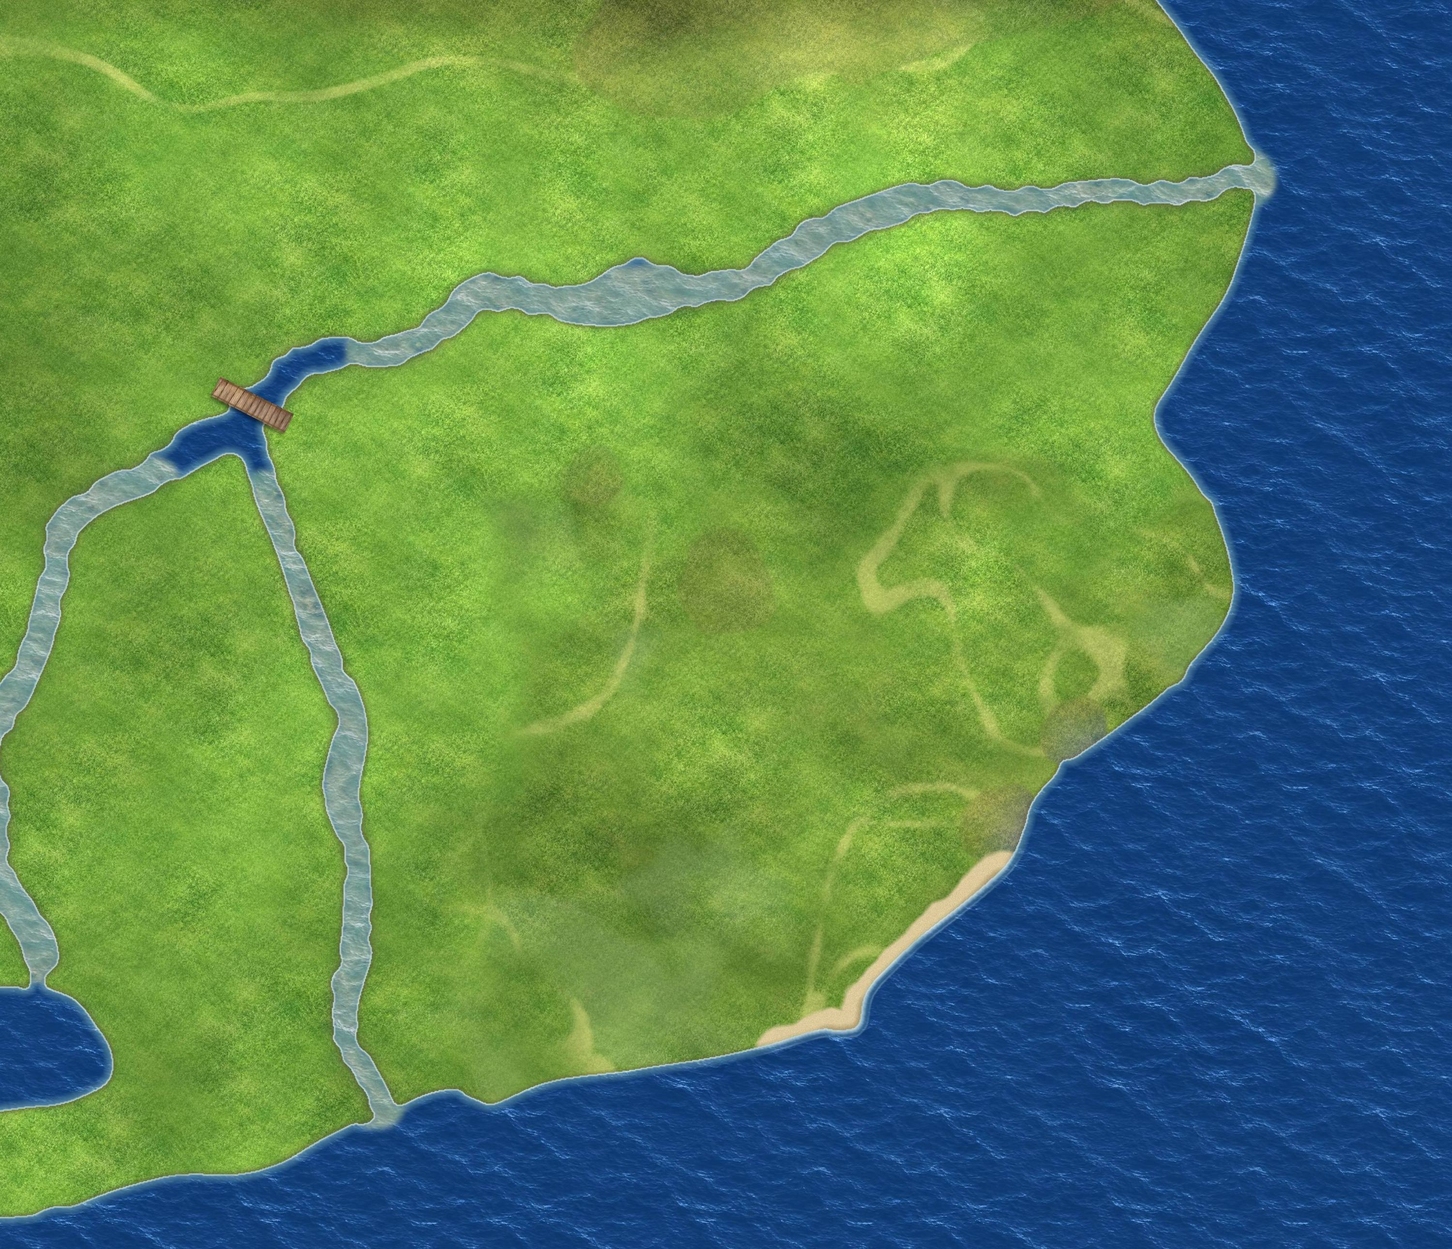
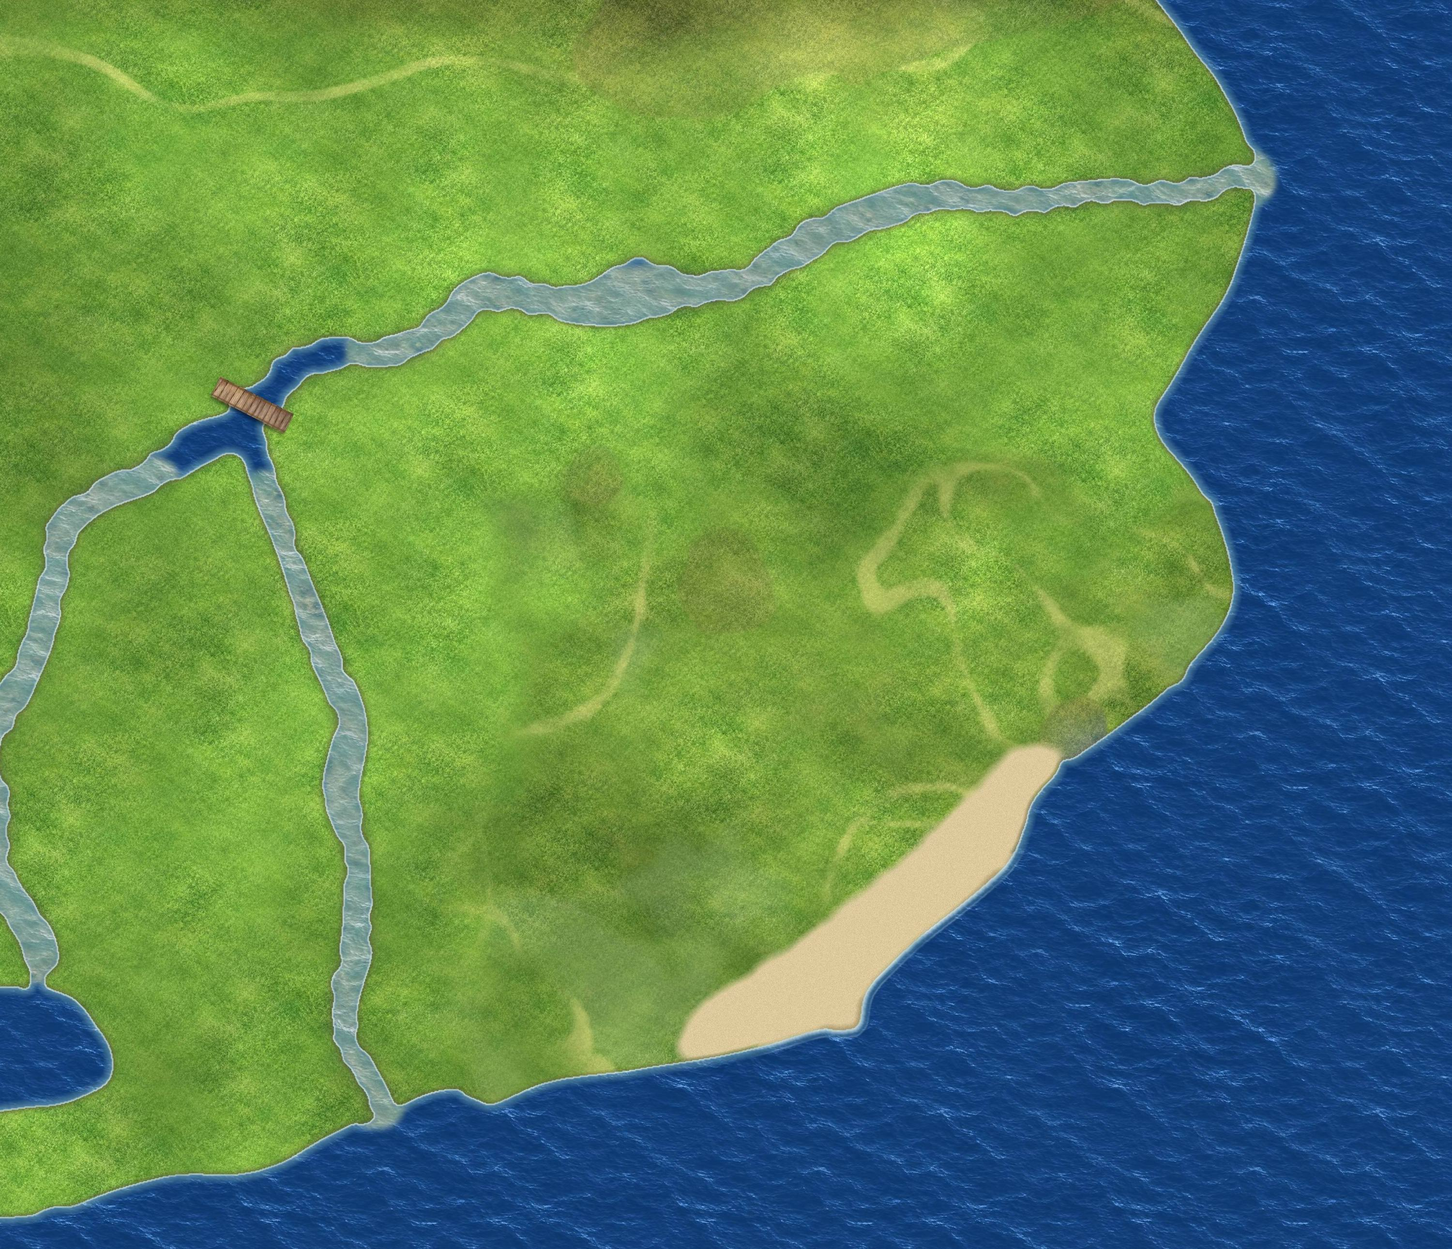
角色只选男/女（其他造型加锁）、记住选择；男主专属掌机（像素光弹、满级俄罗斯方块）、女主专属耳机（声波圈、音符、重低音）；东南海岸按涂抹做沙滩
Claude-Session: https://claude.ai/code/session_011WrGna6yNwTfpmyp4CxMHs

Changed region(s): [[0.465, 0.5891, 0.744, 0.8682]]

diff --git a/src/run.js b/src/run.js
@@ -1,7 +1,7 @@
 // 局内成长（最小可玩版）：经验珠 → 升级三选一（大类卡点开再选）→ 多把武器自动攻击；被动；刷怪节奏；精英与 Boss。
 // 设计见 docs/GAME_DESIGN.md。伤害单位 = 敌人血量单位（棍兵基础 2 点）。
 const R=(a,b)=>a+Math.random()*(b-a);
-const CATS={blade:{name:'刀剑',ws:['sword','dao','hammer','axe']},bow:{name:'弓弩',ws:['bow','xbow']}};
+const CATS={own:{name:'专属',ws:[]},blade:{name:'刀剑',ws:['sword','dao','hammer','axe']},bow:{name:'弓弩',ws:['bow','xbow']}};
 const WEAPONS={
  sword:{name:'直剑',cat:'blade',img:'直剑',desc:['朝最近的敌人快速连斩','伤害提升','每次斩两下','范围变大','攻速提升','伤害提升','每次斩三下','范围、伤害大增']},
  dao:{name:'砍刀',cat:'blade',img:'砍刀',desc:['朝前方 120° 扇形横扫','伤害提升','扇面变大','间隔缩短','伤害提升','扇面变成半圆','间隔缩短','前后各扫一刀']},
@@ -14,6 +14,9 @@ const PASSIVES={
  hp:{name:'生命',desc:'生命上限 +20，并回复 20',max:5},
  spd:{name:'移速',desc:'移动速度 +8%',max:5},
  mag:{name:'拾取',desc:'经验拾取范围 +25%',max:5}};
+// 角色专属武器（不进公共卡池）
+WEAPONS.gb={name:'掌机',cat:'own',img:'gear/gb',own:1,desc:['按 A 键射出像素光弹，追最近的敌人','伤害提升','一次 2 发','光弹穿透 1 个敌人','射速提升','一次 3 发','穿透 +1','每 4 轮从天上砸下俄罗斯方块']};
+WEAPONS.hp={name:'耳机',cat:'own',img:'gear/hp',own:1,desc:['放出声波圈，向外扩散并推开敌人','伤害提升','声波圈变大','间隔缩短','附带音符追踪敌人','伤害提升','音符变多','重低音：全屏震停敌人 1 秒']};
 const MAXW=6,MAXP=4;
 export function createRun({hero,en,images,hitEnemy,survival,ok,makeEnemy}){
  let S;
@@ -30,6 +33,7 @@ export function createRun({hero,en,images,hitEnemy,survival,ok,makeEnemy}){
  #lvup .row{display:flex;gap:8px;justify-content:center;margin-top:6px}#lvup .row button{padding:8px 16px;border-radius:6px;border:1px solid #8fbbef;background:#436da66b;color:#fff;font:inherit;cursor:pointer}`;
  document.head.append(st);document.body.append(ui);
  const wImg={};for(const k in WEAPONS){const im=new Image();im.src='assets/weapons/'+WEAPONS[k].img+'.png';wImg[k]=im}
+ const GX={};for(const k of ['b0','b1','b2','b3','x0','x1','x2','x3','tet','w0','w1','w2','w3','n0','n1','n2','bass']){const im=new Image();im.src='assets/weapons/gear/'+k+'.png';GX[k]=im}
  function reset(start='sword'){
   S={t:+(new URLSearchParams(location.search).get('t')||0),lv:1,xp:0,need:5,queue:0,lastLv:-9,rerolls:0,w:{[start]:1},cd:{},p:{atk:0,hp:0,spd:0,mag:0},gems:[],shots:[],fx:[],texts:[],eliteT:+(new URLSearchParams(location.search).get('t')||0)+75,bossDone:{},paused:false,maxHp:100};
   survival?.setMax?.(100);ui.hidden=true;
@@ -73,7 +77,16 @@ export function createRun({hero,en,images,hitEnemy,survival,ok,makeEnemy}){
   xbow(L){const n=L>=8?9:L>=6?7:L>=3?5:3,dm=dmg(.9+(L>=2?.3:0)+(L>=5?.4:0)+(L>=8?.5:0)),pierce=L>=7?1:0;
    const t=nearest(180),base=t?Math.atan2(t.y-hero.y,t.x-hero.x):(hero.face>0?0:Math.PI);
    for(let i=0;i<n;i++){const a=base+(i-(n-1)/2)*.16;S.shots.push({k:'bolt',x:hero.x,y:hero.y-10,dx:Math.cos(a),dy:Math.sin(a),v:260,life:.75,dm,pierce,hit:new Set()})}
-   return L>=4?1.15:1.5}};
+   return L>=4?1.15:1.5},
+  gb(L){const n=L>=6?3:L>=3?2:1,dm=dmg(1.2+.35*(L-1)),pierce=(L>=4?1:0)+(L>=7?1:0);
+   const ts=en.filter(e=>!e.dead).map(e=>[e,(e.x-hero.x)**2+(e.y-hero.y)**2]).filter(a=>a[1]<190*190).sort((a,b)=>a[1]-b[1]);if(!ts.length)return .2;
+   for(let i=0;i<n;i++){const t=ts[i%ts.length][0],a=Math.atan2(t.y-10-(hero.y-10),t.x-hero.x)+(i>=ts.length?R(-.2,.2):0);S.shots.push({k:'pix',x:hero.x,y:hero.y-10,dx:Math.cos(a),dy:Math.sin(a),v:210,life:1,dm,pierce,hit:new Set()})}
+   S.gbN=(S.gbN||0)+1;if(L>=8&&S.gbN%4===0){const t=ts[0][0];S.shots.push({k:'tet',x:t.x,y:t.y,t:0,d:.45,r:34,dm:dmg(5)})}
+   return L>=5?.6:.85},
+  hp(L){const r=L>=3?62:48,dm=dmg(1+.35*(L-1)+(L>=6?.6:0));S.shots.push({k:'wave',t:0,d:.6,r,dm,hit:new Set()});
+   if(L>=5){const n=L>=7?3:2;for(let i=0;i<n;i++){const a=R(0,6.28);S.shots.push({k:'note',x:hero.x,y:hero.y-12,dx:Math.cos(a),dy:Math.sin(a),v:120,life:1.8,dm:dmg(1.2),pierce:0,hit:new Set(),img:'n'+(i%3)})}}
+   S.hpN=(S.hpN||0)+1;if(L>=8&&S.hpN%5===0){S.fx.push({k:'bass',t:0,d:.6});for(const e of en)if(!e.dead&&(e.x-hero.x)**2+(e.y-hero.y)**2<260*260){strike(e,dm,Math.sign(e.x-hero.x)||1);e.state='hurt';e.timer=-.75}}
+   return L>=4?1.1:1.4}};
  // ---------- 升级 ----------
  function gain(v){S.xp+=v}
  function tryLevel(){
@@ -86,7 +99,7 @@ export function createRun({hero,en,images,hitEnemy,survival,ok,makeEnemy}){
  function options(){
   const pool=[],nw=Object.keys(S.w).length,np=Object.keys(S.p).filter(k=>S.p[k]>0).length;
   for(const k in S.w)if(S.w[k]<8)pool.push({t:'w',k,wt:1.2});
-  if(nw<MAXW)for(const c in CATS)if(CATS[c].ws.some(k=>!S.w[k]))pool.push({t:'cat',k:c,wt:1});
+  if(nw<MAXW)for(const c in CATS)if(CATS[c].ws.length&&CATS[c].ws.some(k=>!S.w[k]))pool.push({t:'cat',k:c,wt:1});
   for(const k in PASSIVES){const L=S.p[k];if(L>=PASSIVES[k].max)continue;if(!L&&np>=MAXP)continue;pool.push({t:'p',k,wt:.8})}
   const out=[];while(out.length<3&&pool.length){const tot=pool.reduce((a,o)=>a+o.wt,0);let r=Math.random()*tot,i=0;while(i<pool.length-1&&r>pool[i].wt)r-=pool[i++].wt;out.push(pool.splice(i,1)[0])}
   if(!out.length)out.push({t:'heal'});return out}
@@ -125,6 +138,9 @@ export function createRun({hero,en,images,hitEnemy,survival,ok,makeEnemy}){
   S.t+=dt;
   for(const k in S.w){S.cd[k]=(S.cd[k]??R(.1,.4))-dt;if(S.cd[k]<=0)S.cd[k]=FIRE[k](S.w[k])}
   for(const s of S.shots){
+   if(s.k==='wave'){s.t+=dt;const rr=s.r*Math.min(1,s.t/s.d);for(const e of en){if(e.dead||s.hit.has(e))continue;const d=Math.hypot(e.x-hero.x,(e.y-hero.y)*1.2);if(d<rr+4){s.hit.add(e);strike(e,s.dm,Math.sign(e.x-hero.x)||1);if(!e.boss)knock(e,8)}}s.dead=s.t>=s.d;continue}
+   if(s.k==='tet'){s.t+=dt;if(!s.done&&s.t>=s.d){s.done=true;S.fx.push({k:'ring',x:s.x,y:s.y,r:s.r,t:0,d:.3});for(const e of en)if(!e.dead&&(e.x-s.x)**2+((e.y-s.y)*1.3)**2<s.r*s.r)strike(e,s.dm,1)}s.dead=s.t>s.d+.05;continue}
+   if(s.k==='note'){const t=nearest(160,s);if(t){const a=Math.atan2(t.y-10-s.y,t.x-s.x),b=Math.atan2(s.dy,s.dx),d=Math.atan2(Math.sin(a-b),Math.cos(a-b));const nb=b+Math.max(-4*dt,Math.min(4*dt,d));s.dx=Math.cos(nb);s.dy=Math.sin(nb)}}
    if(s.k==='hammer'){s.t+=dt;if(!s.done&&s.t>=s.d){s.done=true;S.fx.push({k:'ring',x:s.x,y:s.y,r:s.r,t:0,d:.3});
      for(const e of en){if(e.dead)continue;if((e.x-s.x)**2+((e.y-s.y)*1.3)**2<(s.r+4*(e.sc||1))**2){strike(e,s.dm,Math.sign(e.x-s.x)||1);if(!e.dead){const dx=e.x-s.x,dy=e.y-s.y,l=Math.hypot(dx,dy)||1,k=e.boss?2:12;if(ok(e.x+dx/l*k,e.y+dy/l*k)){e.x+=dx/l*k;e.y+=dy/l*k}}}}}
      s.dead=s.t>s.d+.05;continue}
@@ -151,6 +167,10 @@ export function createRun({hero,en,images,hitEnemy,survival,ok,makeEnemy}){
   for(const s of S.shots){
    if(s.k==='hammer'){const k=Math.min(1,s.t/s.d),x=s.x-cx,y=s.y-cy-60*(1-k)-6;c.save();c.globalAlpha=.35*k;c.fillStyle='#000';c.beginPath();c.ellipse(s.x-cx,s.y-cy,s.r*.5*k,s.r*.2*k,0,0,6.3);c.fill();c.restore();
     const im=wImg.hammer;if(im.complete){c.save();c.translate(x,y);c.rotate(Math.PI*(.2+k*.8));c.drawImage(im,-im.width/2,-im.height/2);c.restore()}continue}
+   if(s.k==='wave'){const k=Math.min(1,s.t/s.d),im=GX['w'+Math.min(3,Math.floor(k*4))],rr=s.r*k;if(im.complete){c.save();c.globalAlpha=1-k*.5;c.drawImage(im,hero.x-cx-rr,hero.y-cy-8-rr*.8,rr*2,rr*1.6);c.restore()}continue}
+   if(s.k==='tet'){const k=Math.min(1,s.t/s.d),im=GX.tet;if(im.complete){const h=22,w=im.width*h/im.height;c.drawImage(im,s.x-cx-w/2,s.y-cy-h-70*(1-k),w,h)}continue}
+   if(s.k==='note'){const im=GX[s.img];if(im.complete){const h=9,w=im.width*h/im.height;c.drawImage(im,s.x-cx-w/2,s.y-cy-h/2,w,h)}continue}
+   if(s.k==='pix'){const im=GX['b'+(Math.floor(performance.now()/80)%4)];if(im.complete){c.save();c.translate(s.x-cx,s.y-cy);c.rotate(Math.atan2(s.dy,s.dx));const h=6,w=im.width*h/im.height;c.drawImage(im,-w+3,-h/2,w,h);c.restore()}continue}
    const x=s.x-cx,y=s.y-cy;c.save();c.translate(x,y);c.rotate(Math.atan2(s.dy,s.dx));
    if(s.k==='arrow'){c.strokeStyle='#e9dcc0';c.lineWidth=1;c.beginPath();c.moveTo(-8,0);c.lineTo(3,0);c.stroke();c.fillStyle='#c8ccd2';c.fillRect(3,-1,2.5,2);c.fillStyle='#c0402e';c.fillRect(-8,-1.2,2,2.4)}
    else{c.strokeStyle='#d8c39a';c.lineWidth=1.3;c.beginPath();c.moveTo(-5,0);c.lineTo(2,0);c.stroke();c.fillStyle='#aab0b8';c.fillRect(2,-1,2,2)}
@@ -159,6 +179,7 @@ export function createRun({hero,en,images,hitEnemy,survival,ok,makeEnemy}){
   for(const f of S.fx){f.t+=1/60;const k=f.t/f.d;if(k>=1)continue;
    if(f.k==='arc'){c.save();c.translate(px,py);c.strokeStyle=`rgba(${f.c},${.85*(1-k)})`;c.lineWidth=3*(1-k)+1;c.beginPath();c.arc(0,0,f.r*.82,f.a-f.w/2,f.a-f.w/2+f.w*Math.min(1,k*2));c.stroke();
     const im=wImg[f.img];if(im&&im.complete){const aa=f.a-f.w/2+f.w*Math.min(1,k*2);c.rotate(aa);c.translate(f.r*.55,0);c.rotate(Math.PI/2);c.globalAlpha=1-k*.6;c.drawImage(im,-im.width/2,-im.height/2)}c.restore()}
+   else if(f.k==='bass'){const im=GX.bass;if(im.complete){const r=40+200*k;c.save();c.globalAlpha=1-k;c.drawImage(im,px-r,py-r*.8,r*2,r*1.6);c.restore()}}
    else if(f.k==='ring'){c.strokeStyle=`rgba(255,226,170,${1-k})`;c.lineWidth=2.5*(1-k)+.5;c.beginPath();c.ellipse(f.x-cx,f.y-cy,f.r*(.4+.6*k),f.r*(.4+.6*k)*.6,0,0,6.3);c.stroke()}}
   S.fx=S.fx.filter(f=>f.t<f.d);
   c.save();c.textAlign='center';
@@ -170,5 +191,5 @@ export function createRun({hero,en,images,hitEnemy,survival,ok,makeEnemy}){
   let x=VW/2-((Object.keys(S.w).length)*15)/2;c.font='bold 8px "PingFang SC","Microsoft YaHei",sans-serif';c.textAlign='right';c.lineWidth=2;c.strokeStyle='rgba(0,0,0,.7)';c.strokeText('Lv '+S.lv,x-4,18);c.fillStyle='#fff';c.fillText('Lv '+S.lv,x-4,18);c.textAlign='left';
   for(const k in S.w){c.fillStyle='rgba(8,14,30,.6)';c.fillRect(x,8,13,15);const im=wImg[k];if(im.complete){const s=Math.min(11/im.width,13/im.height);c.drawImage(im,x+6.5-im.width*s/2,9,im.width*s,im.height*s)}c.fillStyle='#ffd166';c.font='6px monospace';c.fillText(S.w[k],x+9,22);x+=15}
   c.textAlign='start'}
- return {dbg:{get S(){return S},WEAPONS,PASSIVES,levelUp(){S.xp=S.need;S.lastLv=-9},maxAll(){for(const k in WEAPONS)S.w[k]=8;for(const k in PASSIVES)S.p[k]=PASSIVES[k].max},skip(sec){S.t+=sec}},reset,update,onSpawn,onKill,drawWorld,drawUI,want:()=>S?want():16,get paused(){return !!S&&S.paused},get moveMul(){return S?1+.08*S.p.spd:1}};
+ return {dbg:{get S(){return S},WEAPONS,PASSIVES,levelUp(){S.xp=S.need;S.lastLv=-9},maxAll(){for(const k in WEAPONS)if(!WEAPONS[k].own||S.w[k])S.w[k]=8;for(const k in PASSIVES)S.p[k]=PASSIVES[k].max},skip(sec){S.t+=sec}},reset,update,onSpawn,onKill,drawWorld,drawUI,want:()=>S?want():16,get paused(){return !!S&&S.paused},get moveMul(){return S?1+.08*S.p.spd:1}};
 }

diff --git a/src/main.js b/src/main.js
@@ -45,9 +45,10 @@ function loadSet(cs){
 const needLoad=()=>CS!=='m';
 
 for(let i=0;i<8;i++)ld('hbg_'+i,'assets/characters/hero_b/g_w'+i+'.png');
-let CS='m';const SETS={m:{pre:'hb_',gpre:'hbg_',size:D.hbsize,grip:D.grip,walk:[2,3,4,5,6,7]}};
+let CS=(()=>{try{return localStorage.getItem('sex')==='f'?'f0':'m'}catch(e){return 'm'}})();const SETS={m:{pre:'hb_',gpre:'hbg_',size:D.hbsize,grip:D.grip,walk:[2,3,4,5,6,7]}};
 for(let r=0;r<HM.rows.length;r++){const z=HM.rows[r].size||HM.size;SETS['m'+(r+1)]={pre:'hm'+r+'_',size:[z[0]/2,z[1]/2],grip:HM.rows[r],walk:[2,3,4,5,6,7]}};
 for(let r=0;r<HN.rows.length;r++)SETS['f'+r]={pre:'hh'+r+'_',size:(z=>[z[0]/2,z[1]/2])(HN.rows[r].size||HN.size),grip:HN.rows[r],walk:[2,3,4,5,6,7,8]};
+const GI={gb:new Image(),hp:new Image()};GI.gb.src='assets/weapons/gear/gb.png';GI.hp.src='assets/weapons/gear/hp_f.png';
 let hairG=false,weaponAttack=null,pj=[],CM,mmc,wpm='short';const R=D.coll_r;
 const objs=D.objs.map(([k,x,y])=>({k,x,y,a:1,w:D.size[k][0],h:D.size[k][1],r:R[k]||0}));
 const QP=new URLSearchParams(location.search);const AT=QP.get('x')?[+QP.get('x')/D.WW,+QP.get('y')/D.WH]:({n:[.8,.15],s:[.85,.85],w:[.15,.2],e:[.95,.6],sw:[.15,.85]})[QP.get('at')]||[D.spawn[0]/D.WW,D.spawn[1]/D.WH];
@@ -71,6 +72,8 @@ function drawHero(px,py,moving,now){
  if(wpm=='bow'){const p=tl(FH[f]);c.save();c.translate(p[0]+.5+(weaponAttack?3:0),p[1]-.5);c.scale(-.5,.5);c.drawImage(wi,-wi.width/2,-wi.height/2);c.scale(-2,2);
   if(weaponAttack&&T<.62){const pull=Math.min(1,T/.5)*5;c.strokeStyle='#e8dcc0';c.lineWidth=.8;c.beginPath();c.moveTo(-pull,0);c.lineTo(8-pull,0);c.stroke();c.fillStyle='#bbb';c.fillRect(8-pull,-.6,1.6,1.2)}c.restore()}
  if(wpm=='xbow'){const p=tl(FH[f]),rc=weaponAttack?Math.max(0,.3-Math.abs(T-.5))*-6:0;c.save();c.translate(p[0]+2+rc,p[1]-1);c.rotate(1.57);c.scale(.5,.5);c.drawImage(wi,-wi.width/2,-wi.height/2);c.restore()}
+ if(wpm=='gb'&&GI.gb.complete){const p=tl(RH[f]);c.drawImage(GI.gb,p[0]-2.5,p[1]-6,5.5,7.5)}
+ if(wpm=='hp'&&GI.hp.complete){c.drawImage(GI.hp,-6.5,-27,13,11)}
  if(wpm=='magic'){const bob=Math.sin(now/380)*1.3;c.save();c.translate(-11,-19+bob);c.scale(.5,.5);c.globalAlpha=.97;c.drawImage(wi,-wi.width/2,-wi.height/2);c.restore()}
  c.restore()}
 const en=[];let kills=0,fx=[];
@@ -85,7 +88,7 @@ function mkCloud(){const n=96,g=[];for(let i=0;i<64;i++)g.push(Math.random());co
 function start(){const t=document.createElement('canvas');t.width=WW;t.height=WH;const x=t.getContext('2d');x.drawImage(IM.coll,0,0);CM=x.getImageData(0,0,WW,WH).data;
  {const mm=$('mm');mm.height=Math.round(84*WH/WW);mm.style.setProperty('--mma',WW/WH)}
  mmc=document.createElement('canvas');mmc.width=84;mmc.height=Math.round(84*WH/WW);{const g=mmc.getContext('2d');const T=D.tiles.T,s=mmc.width/WW;for(const k of D.gt){const im=IM[k];g.drawImage(im,+k[1]*T*s,+k[2]*T*s,im.width/HD*s,im.height/HD*s)}}
- document.querySelectorAll('#cs button').forEach(b=>b.onclick=()=>{CS=b.dataset.c;if(needLoad())loadSet(CS);document.querySelectorAll('#cs button').forEach(x=>x.setAttribute('aria-pressed',x===b))});
+ document.querySelectorAll('#cs button').forEach(b=>{b.setAttribute('aria-pressed',b.dataset.c===CS);b.onclick=()=>{if(b.disabled)return;CS=b.dataset.c;try{localStorage.setItem('sex',CS[0])}catch(e){}if(needLoad())loadSet(CS);document.querySelectorAll('#cs button').forEach(x=>x.setAttribute('aria-pressed',x===b))}});if(CS!=='m'&&needLoad())loadSet(CS);
  mkCloud();
  menu=createMenu({c,images:IM,data:D,drawGround,objects:objs,enemies:ED,
   character(frame){const s=SETS[CS];return {image:IM[(hairG&&s.gpre?s.gpre:s.pre)+frame],size:s.size,label:document.querySelector('#cs button[aria-pressed="true"]').textContent}},
@@ -93,7 +96,7 @@ function start(){const t=document.createElement('canvas');t.width=WW;t.height=WH
  });
  survival=createSurvival({hero,enemies:en,get kills(){return kills},
   clearInput(){joy=null;for(const k in keys)keys[k]=0},home(){menu.show()},
-  reset(){run.reset();hero.x=WW*AT[0];hero.y=WH*AT[1];hero.face=1;kills=0;en.length=0;enemySystem.reset();weaponAttack=null;pj=[];fx=[];rip=[];fp=[];nextAtk=0;wpm='short';joy=null;for(const k in keys)keys[k]=0}
+  reset(){run.reset(CS[0]==='f'?'hp':'gb');hero.x=WW*AT[0];hero.y=WH*AT[1];hero.face=1;kills=0;en.length=0;enemySystem.reset();weaponAttack=null;pj=[];fx=[];rip=[];fp=[];nextAtk=0;wpm=CS[0]==='f'?'hp':'gb';joy=null;for(const k in keys)keys[k]=0}
  });run=createRun({hero,en,images:IM,survival,ok,makeEnemy:(x,y,k)=>enemySystem.make(x,y,k),hitEnemy:(e,v,dir)=>hitEnemy(e,performance.now(),dir,v)});dbg=createDebug({world:D,hero,en,run,survival,weather,hit:(e,v)=>hitEnemy(e,performance.now(),1,v)});dbg?.show(false);requestAnimationFrame(loop)}
 function drawGroundRaw(ctx,sx,sy,sw,sh,dx,dy,dw,dh){const T=D.tiles.T,z=dw/sw;for(const k of D.gt){const x0=+k[1]*T,y0=+k[2]*T,a=Math.max(sx,x0),b=Math.min(sx+sw,x0+T,WW),c0=Math.max(sy,y0),c1=Math.min(sy+sh,y0+T,WH);if(b<=a||c1<=c0)continue;const ex=b<sx+sw&&b<WW?.5:0,ey=c1<sy+sh&&c1<WH?.5:0;ctx.drawImage(IM[k],(a-x0)*HD,(c0-y0)*HD,(b-a+ex)*HD,(c1-c0+ey)*HD,dx+(a-sx)*z,dy+(c0-sy)*z,(b-a+ex)*z,(c1-c0+ey)*z)}}
 // 地面缓存：按当前屏幕缩放把地面切成 256 格的小块，各缩放一次存起来，之后每帧原样贴（画面不变，省显卡）

diff --git a/src/menu.js b/src/menu.js
@@ -41,6 +41,9 @@ body{--fg:#edf4fa;--muted:#b2c1d0;--line:#566879;background:#101921;color:#edf4f
 #prep #cs{display:grid;grid-template-columns:repeat(auto-fill,minmax(82px,1fr));gap:8px}
 #prep #cs button{cursor:pointer;display:flex;flex-direction:column;align-items:center;gap:4px;padding:8px 4px;border:1px solid #83abe354;border-radius:8px;background:#0c225a66;color:#ecf5ff;font:12px inherit}
 #prep #cs button img{height:44px;image-rendering:pixelated}
+#prep #cs{grid-template-columns:1fr 1fr}#prep #cs button.big img{height:84px}#prep #cs button.big{padding:14px 6px;font-size:15px}
+#prep .lockrow{display:flex;flex-wrap:wrap;gap:6px;align-items:center;margin-top:10px;color:#9fb6d8;font-size:12px}#prep .lockrow span{width:100%}
+#prep .lockrow button{width:46px;padding:4px;border:1px solid #83abe333;border-radius:6px;background:#0c225a44;opacity:.45;cursor:not-allowed;color:#ccd}#prep .lockrow img{height:30px;filter:grayscale(1) brightness(.6);image-rendering:pixelated}#prep .lockrow button span{font-size:10px}
 #prep #cs button[aria-pressed=true]{background:#77a9f044;border-color:#f0dc9c;box-shadow:0 0 0 2px #e2cb8788}
 .pp-info{flex:0 0 200px;text-align:center;border:1px solid #9ebfe444;border-radius:10px;padding:14px;background:#0a183a66}
 .pp-info canvas{width:120px;height:120px;image-rendering:pixelated}.pp-info h3{margin:6px 0 10px;color:#f7d987}.pp-info p{margin:6px 0;color:#c9d8f0;font-size:13px}
@@ -94,7 +97,10 @@ export function createMenu(game){
  prep.addEventListener('keydown',e=>e.stopPropagation());prep.addEventListener('keyup',e=>e.stopPropagation());
  const roles=prep.querySelector('.pp-roles');roles.append(cs);
  const thumb=b=>{const c=b.dataset.c;return c==='m'?'assets/characters/hero_b/w0.png':c[0]==='m'?`assets/characters/hero_m/r${+c[1]-1}_w0.png`:`assets/characters/heroine/r${c[1]}_w0.png`};
- cs.querySelectorAll('button').forEach(b=>{const im=new Image();im.src=thumb(b);im.alt='';const t=document.createElement('span');t.textContent=b.textContent;b.textContent='';b.append(im,t)});
+ cs.querySelectorAll('button').forEach(b=>{const im=new Image();im.src=thumb(b);im.alt='';const t=document.createElement('span');const main=b.dataset.c==='m'||b.dataset.c==='f0';
+  t.textContent=main?(b.dataset.c==='m'?'男 · 掌机':'女 · 耳机'):'🔒';b.textContent='';b.append(im,t);
+  if(main)b.classList.add('big');else{b.disabled=true;b.classList.add('lock');b.title='后期解锁（商店 / 成就）'}});
+ {const lk=document.createElement('div');lk.className='lockrow';lk.innerHTML='<span>更多造型 · 后期解锁</span>';[...cs.querySelectorAll('button.lock')].forEach(b=>lk.append(b));cs.after(lk)}
  const step=s=>prep.querySelectorAll('.pp-step').forEach(x=>x.hidden=x.dataset.s!==s);
  prep.querySelectorAll('.pp-tabs button').forEach(b=>b.onclick=()=>{prep.querySelectorAll('.pp-tabs button').forEach(x=>x.setAttribute('aria-selected',x===b));prep.querySelectorAll('.pp-pane').forEach(p=>p.hidden=p.dataset.t!==b.dataset.t)});
  prep.querySelector('[data-s=prep] .pp-back').onclick=()=>{prep.hidden=true;root.hidden=false;root.querySelector('.menu-start').focus()};

diff --git a/src/debug.js b/src/debug.js
@@ -1,7 +1,7 @@
 // 开发者面板：网址加 ?debug 才出现（仅测试用，玩家看不到）。
 export function createDebug(g){
  if(!new URLSearchParams(location.search).has('debug'))return null;
- const D=window.DBG={god:false};
+ const D=window.DBG={god:false};window.G=g;
  const st=document.createElement('style');st.textContent=`
  #dbg{position:fixed;left:8px;bottom:8px;z-index:50;width:220px;max-height:80vh;overflow:auto;font:12px "PingFang SC","Microsoft YaHei",sans-serif;color:#eaf2ff;background:#0b1530e8;border:1px solid #8fbbef;border-radius:8px;padding:8px}
  #dbg.min>:not(h4){display:none}#dbg h4{margin:0 0 6px;color:#f7d987;cursor:pointer;font-size:13px}

diff --git a/tools/slice_gear.py b/tools/slice_gear.py
@@ -1,0 +1,24 @@
+"""男主 Game Boy / 女主头戴耳机 素材表（art_src/weapons/gb_hp.png，洋红底 4 行）→ assets/weapons/gear/*.png"""
+import numpy as np,cv2,os
+from PIL import Image
+R=os.path.dirname(os.path.dirname(os.path.abspath(__file__)));O=R+'/assets/weapons/gear/';os.makedirs(O,exist_ok=True)
+a=np.array(Image.open(R+'/art_src/weapons/gb_hp.png').convert('RGB')).astype(int);r,g,b=a[...,0],a[...,1],a[...,2]
+bg=(r>170)&(b>170)&(g<110)|((r>g+120)&(b>g+100))
+fg=(~bg).astype(np.uint8)
+def runs(v,gap):
+    R_=[];s=None;last=-99
+    for i,x in enumerate(v):
+        if x:
+            if s is None: s=i
+            elif i-last>gap: R_.append((s,last+1)); s=i
+            last=i
+    if s is not None: R_.append((s,last+1))
+    return R_
+rows=[q for q in runs(fg.sum(1)>2,25) if q[1]-q[0]>40]; print(rows)
+NAMES=[['gb','gb_glow','gb_evo'],['b0','b1','b2','b3','x0','x1','x2','x3','tet'],['hp','hp_f','hp_evo','hp_evo_f'],['w0','w1','w2','w3','n0','n1','n2','bass']]
+for (y0,y1),nm in zip(rows,NAMES):
+    F=fg[y0:y1];segs=[q for q in runs(F.sum(0)>0,18) if q[1]-q[0]>6]
+    print(len(segs),len(nm))
+    for (x0,x1),n in zip(segs,nm):
+        m=F[:,x0:x1];ys=np.nonzero(m.any(1))[0];c=np.dstack([a[y0+ys[0]:y0+ys[-1]+1,x0:x1],m[ys[0]:ys[-1]+1]*255]).astype(np.uint8)
+        Image.fromarray(c).save(O+n+'.png')

diff --git a/tools/rebuild_nature.py b/tools/rebuild_nature.py
@@ -166,7 +166,10 @@ sea=cv2.morphologyEx(sea.astype(np.uint8),cv2.MORPH_OPEN,disk(10)).astype(bool)
 dsea=cv2.distanceTransform((~sea).astype(np.uint8),cv2.DIST_L2,5)
 bw=18+12*nz                                              # 沙滩宽度带点起伏
 beach=land&(dsea<bw)
-sand=np.clip((bw-dsea)/4,0,1)*land                       # 沙滩（边缘柔和过渡到草地）
+bp_=np.zeros((H,W),np.uint8)                              # 用户涂抹的沙滩（art_src/map/beach_paint.json，裁前坐标）
+for P in json.load(open(ROOT+'/art_src/map/beach_paint.json')): cv2.polylines(bp_,[np.array(P,np.int32)],False,1,46)
+bpd=(cv2.dilate(bp_,disk(4))>0)&land; beach|=bpd
+sand=np.clip((bw-dsea)/4,0,1)*land; sand=np.maximum(sand,np.clip((blur(bpd,9)-0.5)*2.4+0.5+(nz-0.5)*0.9,0,1)*land)                       # 沙滩（边缘柔和过渡到草地）
 wet=np.clip(1-dsea/7,0,1)*land
 seanear=np.clip(1-dsea/30,0,1)
 print('沙滩',beach.sum())
